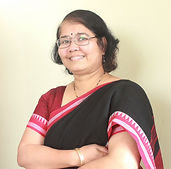
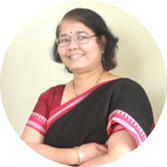
Test

diff --git a/src/app/principals-note/principals-note.component.html b/src/app/principals-note/principals-note.component.html
@@ -1,8 +1,18 @@
-<div>
-    <div class="photo">
-        <p>Hi</p>
+<!-- <link rel="preconnect" href="https://fonts.googleapis.com">
+<link rel="preconnect" href="https://fonts.gstatic.com" crossorigin>
+<link href="https://fonts.googleapis.com/css2?family=Montserrat&family=Quintessential&display=swap" rel="stylesheet">
+
+<div class="container-outer">
+    <div class="container-inner">
+        <div class="photo">
+            <img src="../../assets/principal-photo.png" alt="principal-photo" id="img-style">
+        </div>
+        <div class="name-style">
+            <p style="font-size: 2.8rem;">Manisha Khadke</p>
+            <p style="font-size: 1.5rem;">Founder and Principal</p>
+        </div>
     </div>
     <div class="note">
-        <p>there</p>
+        <p>Lorem ipsum dolor sit amet, consectetur adipiscing elit. Nulla nisi ligula, condimentum a auctor ut, condimentum vitae sapien. Pellentesque eu convallis purus. Donec elementum ligula pellentesque enim consectetur tempor. In pharetra lacinia ligula, sed finibus leo. Morbi ut venenatis metus, nec imperdiet nulla. Fusce sollicitudin vulputate diam in blandit. Sed bibendum magna dapibus fringilla congue.</p>
     </div>
-</div>
+</div> -->

diff --git a/src/app/principals-note/principals-note.component.css b/src/app/principals-note/principals-note.component.css
@@ -1,11 +1,46 @@
-.photo {
-    width: 50%;
+/* @import url('https://fonts.googleapis.com/css2?family=Montserrat&family=Quintessential&display=swap');
+
+* {
+    font-family: 'Quintessential', cursive;
+}
+
+.container-outer {
+    background-color: #182747;
+    border-color: #182747;
+    border-style: solid;
+    height: 500px;
+}
+
+.container-inner {
     display: flex;
-    float: left;
+    width: 50%;
+}
+
+.name-style {
+    color: #FFFBAC;
+    position: absolute;
+    left: 245px;
+    top: 1340px;
+}
+
+.photo {
+    display: flex;
+    position: absolute;
+    left: 290px;
+    top: 1110px;
+    height: 200px;
 }
 
 .note {
     width: 50%;
-    display: flex;
+    display: inline-flex;
     float: right;
+    color: white;
 }
+
+.style-note {
+    color: white;
+    position: absolute;
+    left: 290px;
+    top: 1110px;
+} */

diff --git a/src/app/school-carousel-gallery/school-carousel-gallery.component.css b/src/app/school-carousel-gallery/school-carousel-gallery.component.css
@@ -17,7 +17,8 @@
 .container {
     position: relative;
     text-align: center;
-    color: #A3E4DB; 
+    /* color: #A3E4DB;  */
+    color: #FFFBAC;
 }
 
 .heading {
